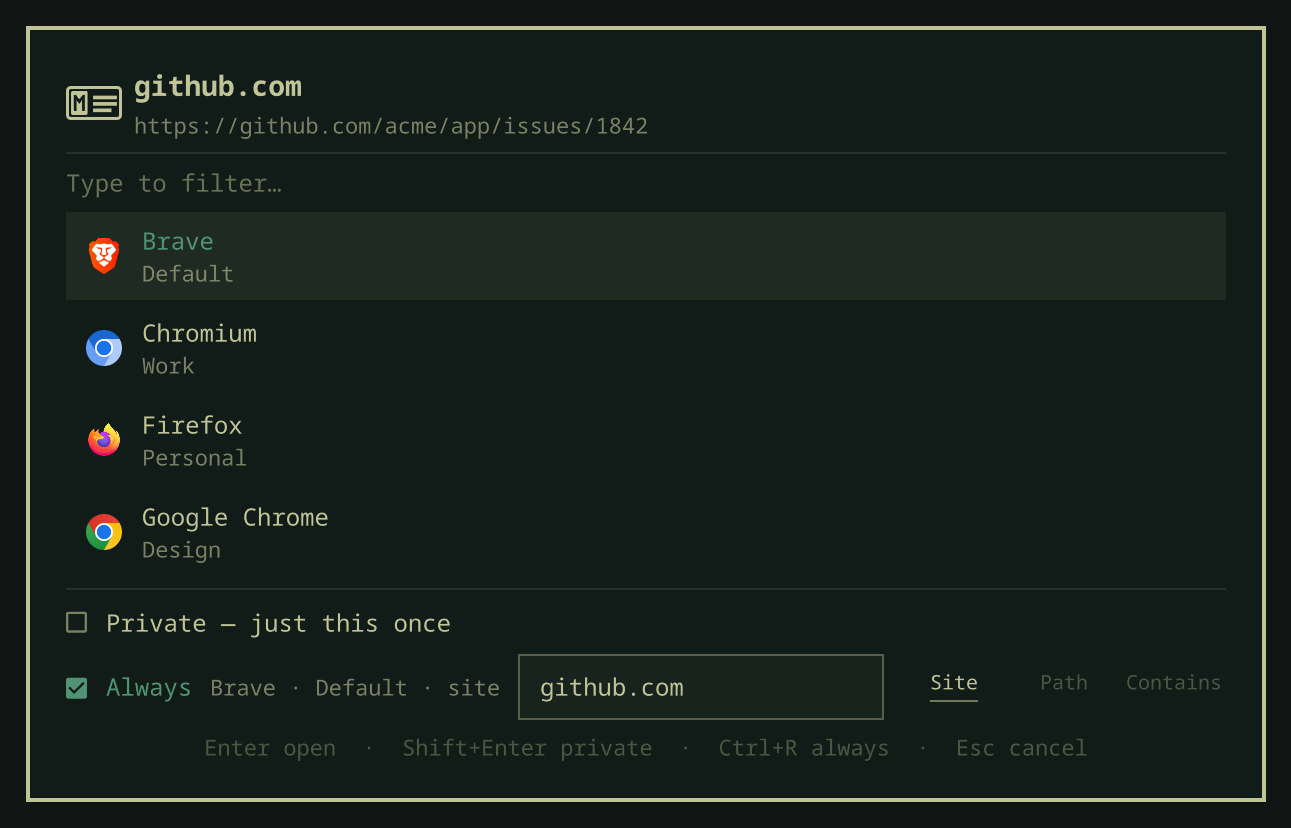
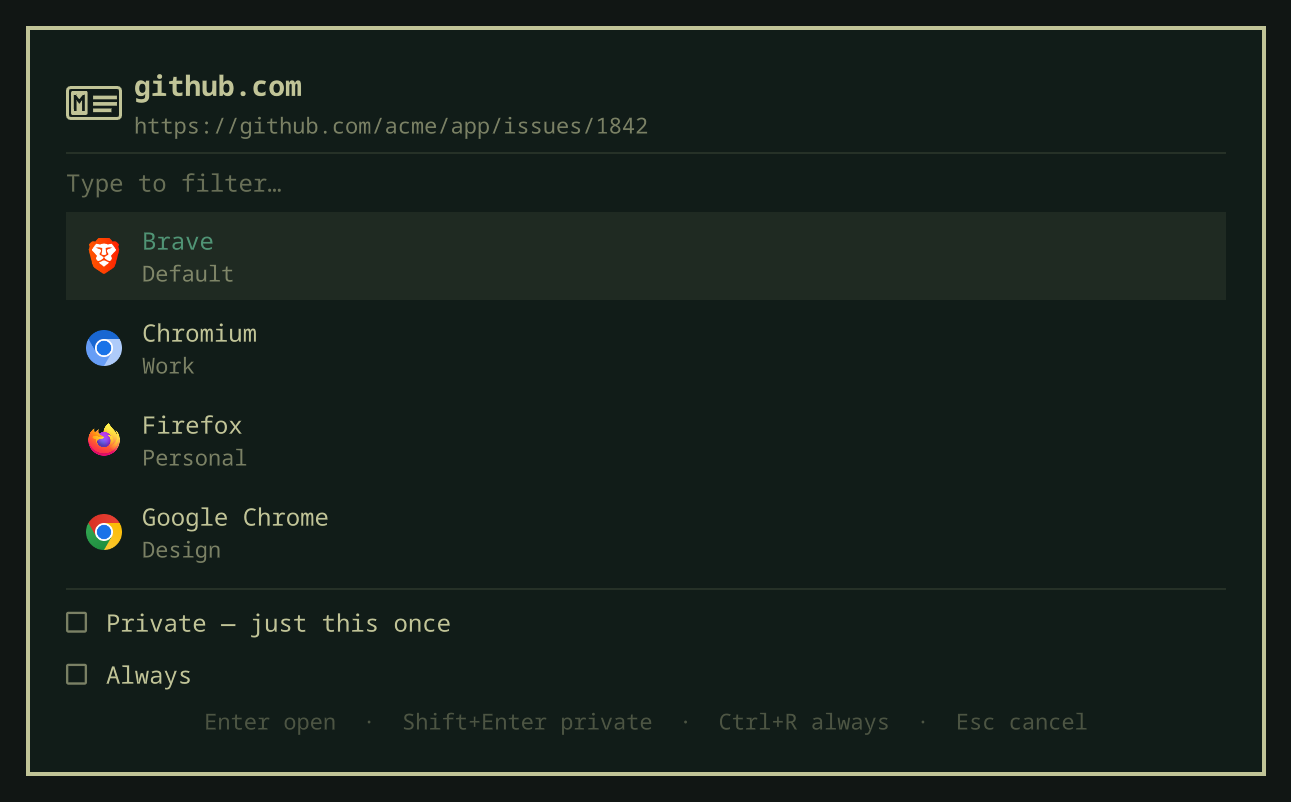
refactor: the Always line is one checkbox until it is ticked
Ghosting the term field and the three shapes still left them on screen taking
up the line, which was the opposite of the ask twice over. They are now hidden
outright: visible:false takes an item out of a layout, so the row and the card
shrink with it and the unticked picker is two checkboxes with nothing after
them.

  ☐ Private — just this once
  ☐ Always

Ticking Always grows the line into the rule it will write — summary, term
field, and the Site/Path/Contains strip. A spacer holds the right edge while
the row is short so ticking grows it rather than shoving it sideways.

Dropped the click-a-ghost-to-arm affordance with the ghosts, and the field's
focus-arms-Always handler with the field: neither can be reached before Always
is on.

Both states are captured now, preview-picker.png and preview-picker-rule.png,
so the README shows the question and the answer.

diff --git a/PickerView.qml b/PickerView.qml
@@ -387,7 +387,12 @@ Item {
         font.pixelSize: Style.font.body
       }
 
+      // Nothing below exists until Always is ticked. Unticked, this line is one
+      // checkbox and one word — a question, not a form. `visible: false` takes
+      // items out of the layout entirely, so the row and the card shrink with
+      // them instead of leaving the hole a ghosted control would.
       Text {
+        visible: root.remember
         text: root.rememberSummary
         color: root.dim
         font.family: root.fontFamily
@@ -399,6 +404,7 @@ Item {
       }
 
       TextField {
+        visible: root.remember
         Layout.fillWidth: true
         Layout.preferredWidth: 0
         Layout.minimumWidth: Style.space(90)
@@ -406,13 +412,12 @@ Item {
         text: root.rememberTerm
         placeholderText: root.host
         onTextChanged: root.rememberTerm = text
-        // Typing here is a statement of intent; arm the checkbox with it.
-        onActiveFocusChanged: if (activeFocus && root.url) root.remember = true
       }
 
       // Tighter than the row's own spacing so the three read as one strip
       // hanging off the field, not as three more controls in the line.
       RowLayout {
+        visible: root.remember
         Layout.alignment: Qt.AlignVCenter
         spacing: Style.space(2)
 
@@ -420,6 +425,10 @@ Item {
         Chip { label: "Path";     when: Router.WHEN_STARTS_WITH }
         Chip { label: "Contains"; when: Router.WHEN_CONTAINS }
       }
+
+      // Holds the right edge while the row is just a checkbox, so ticking
+      // Always grows the line rather than shoving it sideways.
+      Item { Layout.fillWidth: true; visible: !root.remember }
     }
 
     Text {
@@ -479,7 +488,7 @@ Item {
   // How the remembered rule matches. Deliberately not a button: no box, no
   // fill, caption-sized dim text with a hairline under the active one. Private
   // and Always are the actions on these two lines; this is a detail of one of
-  // them, and it only earns presence once Always is on.
+  // them, and it does not exist at all until that one is ticked.
   component Chip: Item {
     id: chip
     property string label: ""
@@ -489,9 +498,6 @@ Item {
     Layout.alignment: Qt.AlignVCenter
     Layout.preferredWidth: chipMetrics.width + Style.space(6)
     implicitHeight: chipText.implicitHeight + Style.space(5)
-
-    opacity: root.remember ? 1 : 0.25
-    Behavior on opacity { NumberAnimation { duration: 110 } }
 
     Text {
       id: chipText
@@ -517,12 +523,7 @@ Item {
       anchors.fill: parent
       hoverEnabled: true
       cursorShape: Qt.PointingHandCursor
-      // Clicking a ghosted chip is how you arm Always with that shape already
-      // chosen, which is one gesture instead of two.
-      onClicked: {
-        root.setRememberWhen(chip.when)
-        root.remember = true
-      }
+      onClicked: root.setRememberWhen(chip.when)
     }
   }
 }

diff --git a/README.md b/README.md
@@ -17,8 +17,11 @@ rules could take the same link the narrower one wins, so there is no ordering to
 maintain.
 
 <p align="center">
-  <img src="preview-picker.png" width="46%" alt="The browser picker, listing four browsers with their profiles">
-  <img src="preview-form.png" width="52%" alt="The rule form, with matcher, destination, and a live preview">
+  <img src="preview-picker.png" width="49%" alt="The browser picker, listing four browsers with their profiles">
+  <img src="preview-picker-rule.png" width="49%" alt="The same picker with Always ticked, showing the term field and the Site, Path and Contains shapes">
+</p>
+<p align="center">
+  <img src="preview-form.png" width="72%" alt="The rule form, with matcher, destination, and a live preview">
 </p>
 
 Everything runs inside `omarchy-shell` as QML. There is no daemon, no compiled
@@ -78,14 +81,24 @@ two boxes, and the second one is a whole rule on one line:
 
 ```
 ☐  Private — just this once
+☐  Always
+```
+
+Tick it and the line grows into the rule it will write:
+
+```
+☐  Private — just this once
 ☑  Always  Brave · Default · site  [ github.com ]   Site   Path   Contains
                                                     ‾‾‾‾
 ```
 
-The three shapes are a detail of the Always line, not a second row of buttons:
-caption-sized, equal width, no box, and ghosted until Always is ticked. The
-active one is marked with a hairline, not a fill. Clicking a ghosted one ticks
-Always with that shape already chosen.
+Until then none of that exists — no field, no shapes, no summary. Private and
+Always are the two actions here; everything else is a detail of one of them and
+only appears when it has something to say. The card shrinks to match, so the
+unticked state is two checkboxes rather than two checkboxes and a hole.
+
+The three shapes are not buttons either: caption-sized, all the width of the
+longest label, no box and no fill, with a hairline under the active one.
 
 The link you clicked was `https://github.com/acme/app/issues/1842`, but the rule
 is never the URL you happened to open. It is the term in the field, matched the
